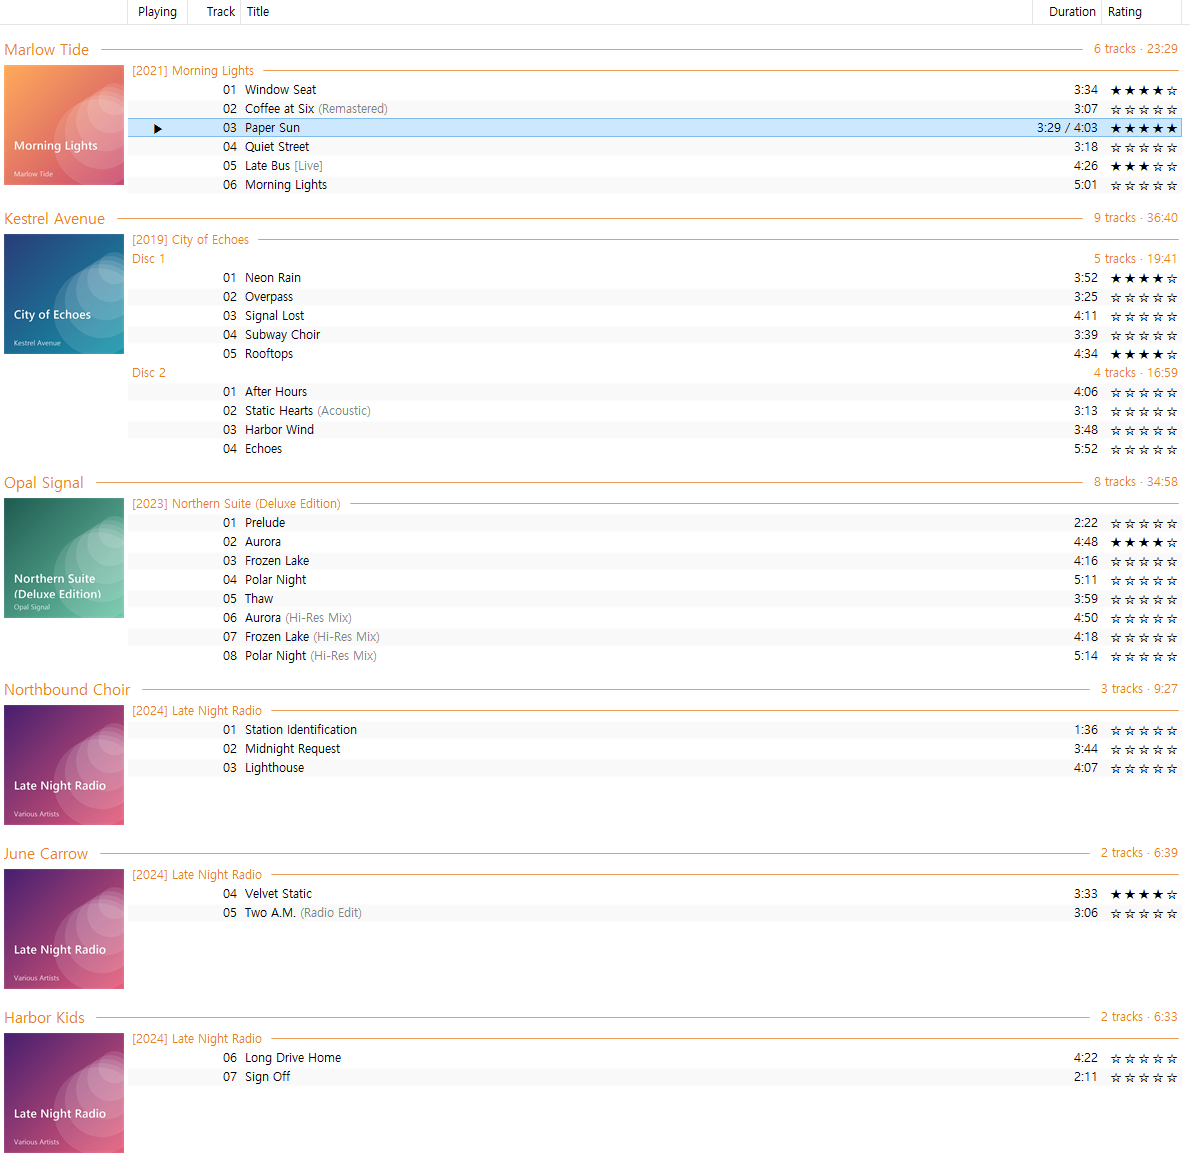
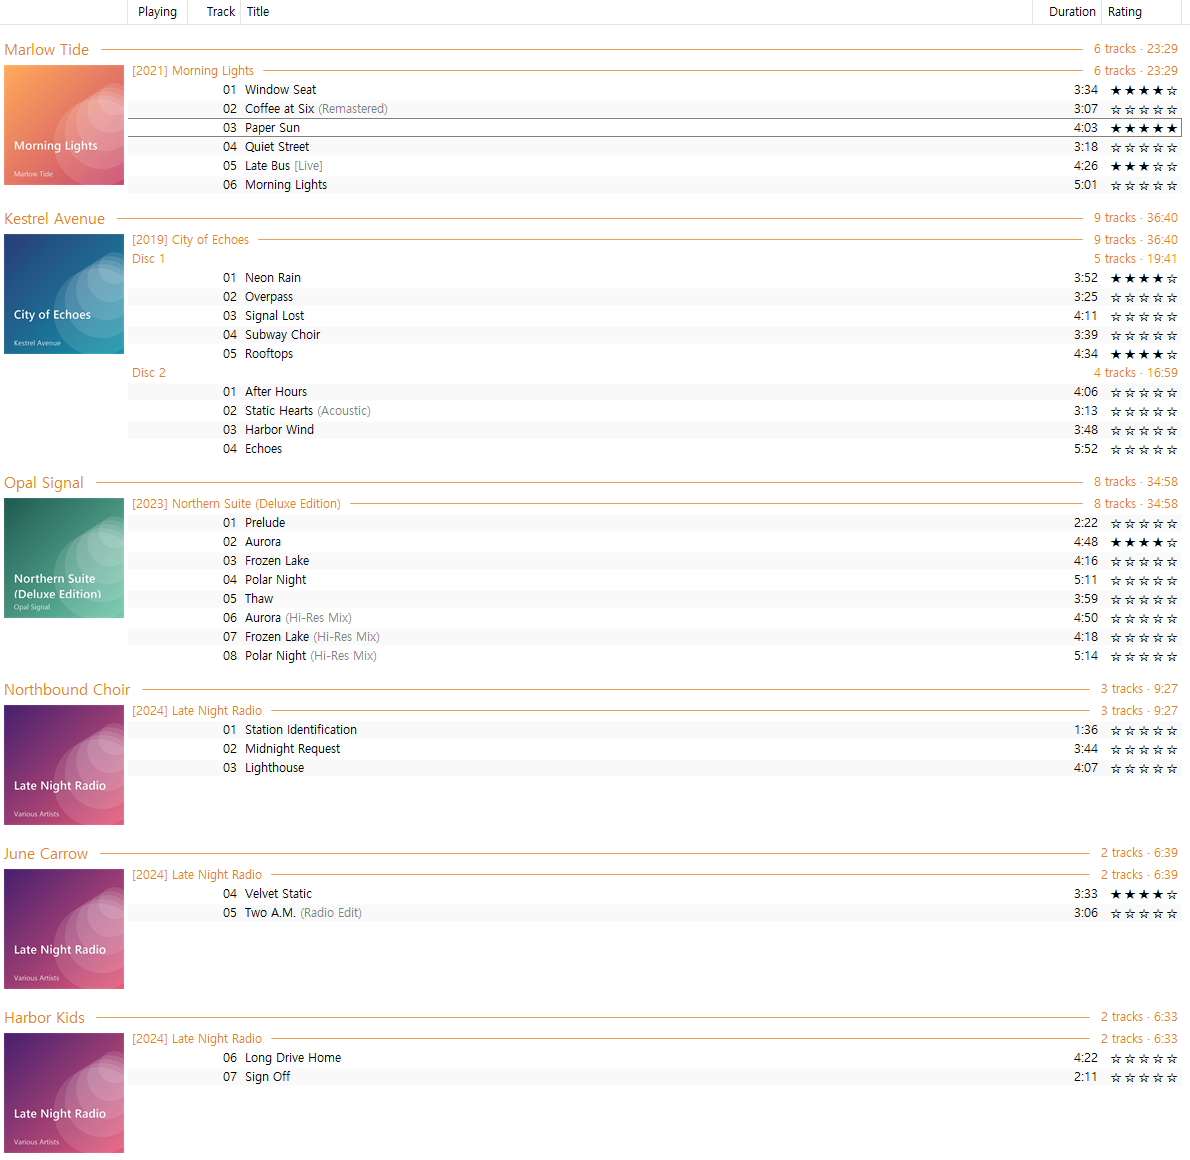
Show the track count on every album label in the artist presets

diff --git a/components/foo_groupplaylist/src/playlist_view.cpp b/components/foo_groupplaylist/src/playlist_view.cpp
@@ -506,10 +506,11 @@ std::string TrackSummary(size_t tracks, double seconds) {
 } // namespace
 
 // Tracks and length of the section a label line opens, such as one disc of an album.
-// Empty when the section is the whole album, because the album header already says the same.
+// Shown even when the section holds every track under the header: in the artist presets the header is
+// the artist and the label is the album, and every album shows its own count.
 std::string PlaylistView::SectionSummary(size_t item, size_t level) const {
 	const auto [first, end] = SectionRangeOf(item, level);
-	if (AlbumRangeOf(item) == std::make_pair(first, end) || end >= m_secondsBefore.size()) return {};
+	if (end >= m_secondsBefore.size()) return {};
 	return TrackSummary(end - first, m_secondsBefore[end] - m_secondsBefore[first]);
 }
 
